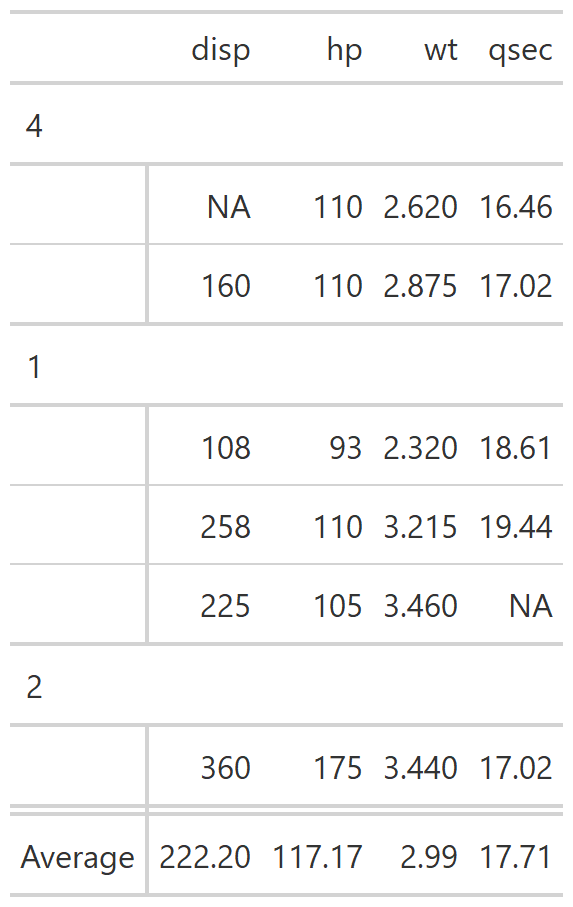
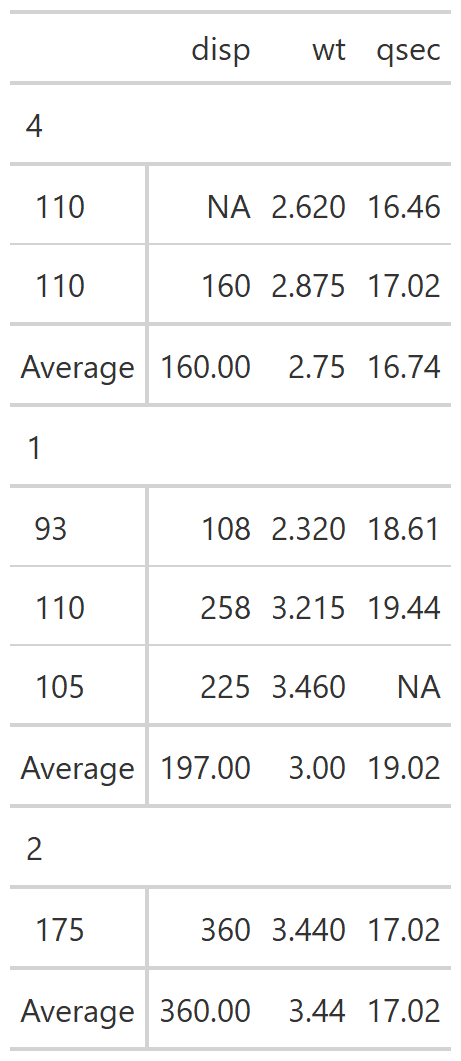
Edit week 4 file in class file

Changed region(s): [[0.0304, 0.0, 0.9718, 0.9879], [0.0911, 0.5557, 0.1822, 0.5865], [0.0607, 0.4939, 0.1518, 0.5248]]

diff --git a/docs/slides/week04_gt_tables.html b/docs/slides/week04_gt_tables.html
@@ -639,7 +639,7 @@ Using the `gtcars_small` dataset:
 -   Move `year` to be the first column, followed by `ctry_origin`.
 
 
-<div class="countdown" id="timer_60774e37" style="right:0;bottom:0;" data-warnwhen="0">
+<div class="countdown" id="timer_607763b4" style="right:0;bottom:0;" data-warnwhen="0">
 <code class="countdown-time"><span class="countdown-digits minutes">05</span><span class="countdown-digits colon">:</span><span class="countdown-digits seconds">00</span></code>
 </div>
 
@@ -939,7 +939,7 @@ You will be using `mtcars_small` for this exercise.
 -   Replace the missing value in `qsec` with "missing".
 -   Add the `yen` currency symbol to `hp` with 0 decimal places.
 
-<div class="countdown" id="timer_60774d3e" style="right:0;bottom:0;" data-warnwhen="0">
+<div class="countdown" id="timer_60776317" style="right:0;bottom:0;" data-warnwhen="0">
 <code class="countdown-time"><span class="countdown-digits minutes">07</span><span class="countdown-digits colon">:</span><span class="countdown-digits seconds">00</span></code>
 </div>
 
@@ -1117,7 +1117,8 @@ gtcars_small %&gt;%
 *       )
 ```
 ***Code notes:***  
--Use `groups = TRUE` for group summaries   
+-Use `groups = TRUE` for group summaries  
+-Must have a rowname column  
 -Choose columns to work on in `columns`    
 -Functions are in a list. Note naming and tilde (`~`) coding   
 ]
@@ -1212,18 +1213,22 @@ If you have all numeric columns, leave the `columns` argument out of the functio
 ```r
 mtcars_small %&gt;%
     gt(
+        rowname_col = "hp",
         groupname_col = "carb"
     ) %&gt;%
 *   summary_rows(
+*       groups = TRUE,
 *       fns = list(Average = ~mean(., na.rm = TRUE))
 *   )
 ```
 ]
+
+***Code notes:***  This doesn't average per group without a rowname column    
 ]
 
 .pull-right[
 .center[
-&lt;img src="figs/week04_files/gt28.png" width="50%" /&gt;
+&lt;img src="figs/week04_files/gt28.png" width="35%" /&gt;
 ]
 ]
 
@@ -1231,7 +1236,7 @@ mtcars_small %&gt;%
 
 ### Grand summary
 
-Add an overall summary along with group summaries with `grand_summary_rows()`.
+Add an overall summary along with group summaries with `grand_summary_rows()` or leave out `groups = TRUE` from `summary_rows()`.
 
 .pull-left[
 
@@ -1267,7 +1272,7 @@ Take `gtcars_small` and do the following:
 -   Add the total `msrp` per group with the row name "Total"
 -   Finally, add the overall total `msrp` across groups with the row name "Overall"
 
-<div class="countdown" id="timer_60774b8a" style="right:0;bottom:0;" data-warnwhen="0">
+<div class="countdown" id="timer_60776330" style="right:0;bottom:0;" data-warnwhen="0">
 <code class="countdown-time"><span class="countdown-digits minutes">05</span><span class="countdown-digits colon">:</span><span class="countdown-digits seconds">00</span></code>
 </div>
 
@@ -1530,7 +1535,7 @@ Using the `mtcars_small` dataset
 -   Add a source note to indicate the data are from a 1974 issue of Motor Trend magazine
 -   Add a footnote to describe `disp` (which is engine displacement in cubic inches)
 
-<div class="countdown" id="timer_60774ea2" style="right:0;bottom:0;" data-warnwhen="0">
+<div class="countdown" id="timer_6077638d" style="right:0;bottom:0;" data-warnwhen="0">
 <code class="countdown-time"><span class="countdown-digits minutes">07</span><span class="countdown-digits colon">:</span><span class="countdown-digits seconds">00</span></code>
 </div>
 

diff --git a/slides/week04_gt_tables.html b/slides/week04_gt_tables.html
@@ -639,7 +639,7 @@ Using the `gtcars_small` dataset:
 -   Move `year` to be the first column, followed by `ctry_origin`.
 
 
-<div class="countdown" id="timer_60774e37" style="right:0;bottom:0;" data-warnwhen="0">
+<div class="countdown" id="timer_607763b4" style="right:0;bottom:0;" data-warnwhen="0">
 <code class="countdown-time"><span class="countdown-digits minutes">05</span><span class="countdown-digits colon">:</span><span class="countdown-digits seconds">00</span></code>
 </div>
 
@@ -939,7 +939,7 @@ You will be using `mtcars_small` for this exercise.
 -   Replace the missing value in `qsec` with "missing".
 -   Add the `yen` currency symbol to `hp` with 0 decimal places.
 
-<div class="countdown" id="timer_60774d3e" style="right:0;bottom:0;" data-warnwhen="0">
+<div class="countdown" id="timer_60776317" style="right:0;bottom:0;" data-warnwhen="0">
 <code class="countdown-time"><span class="countdown-digits minutes">07</span><span class="countdown-digits colon">:</span><span class="countdown-digits seconds">00</span></code>
 </div>
 
@@ -1117,7 +1117,8 @@ gtcars_small %&gt;%
 *       )
 ```
 ***Code notes:***  
--Use `groups = TRUE` for group summaries   
+-Use `groups = TRUE` for group summaries  
+-Must have a rowname column  
 -Choose columns to work on in `columns`    
 -Functions are in a list. Note naming and tilde (`~`) coding   
 ]
@@ -1212,18 +1213,22 @@ If you have all numeric columns, leave the `columns` argument out of the functio
 ```r
 mtcars_small %&gt;%
     gt(
+        rowname_col = "hp",
         groupname_col = "carb"
     ) %&gt;%
 *   summary_rows(
+*       groups = TRUE,
 *       fns = list(Average = ~mean(., na.rm = TRUE))
 *   )
 ```
 ]
+
+***Code notes:***  This doesn't average per group without a rowname column    
 ]
 
 .pull-right[
 .center[
-&lt;img src="figs/week04_files/gt28.png" width="50%" /&gt;
+&lt;img src="figs/week04_files/gt28.png" width="35%" /&gt;
 ]
 ]
 
@@ -1231,7 +1236,7 @@ mtcars_small %&gt;%
 
 ### Grand summary
 
-Add an overall summary along with group summaries with `grand_summary_rows()`.
+Add an overall summary along with group summaries with `grand_summary_rows()` or leave out `groups = TRUE` from `summary_rows()`.
 
 .pull-left[
 
@@ -1267,7 +1272,7 @@ Take `gtcars_small` and do the following:
 -   Add the total `msrp` per group with the row name "Total"
 -   Finally, add the overall total `msrp` across groups with the row name "Overall"
 
-<div class="countdown" id="timer_60774b8a" style="right:0;bottom:0;" data-warnwhen="0">
+<div class="countdown" id="timer_60776330" style="right:0;bottom:0;" data-warnwhen="0">
 <code class="countdown-time"><span class="countdown-digits minutes">05</span><span class="countdown-digits colon">:</span><span class="countdown-digits seconds">00</span></code>
 </div>
 
@@ -1530,7 +1535,7 @@ Using the `mtcars_small` dataset
 -   Add a source note to indicate the data are from a 1974 issue of Motor Trend magazine
 -   Add a footnote to describe `disp` (which is engine displacement in cubic inches)
 
-<div class="countdown" id="timer_60774ea2" style="right:0;bottom:0;" data-warnwhen="0">
+<div class="countdown" id="timer_6077638d" style="right:0;bottom:0;" data-warnwhen="0">
 <code class="countdown-time"><span class="countdown-digits minutes">07</span><span class="countdown-digits colon">:</span><span class="countdown-digits seconds">00</span></code>
 </div>
 
